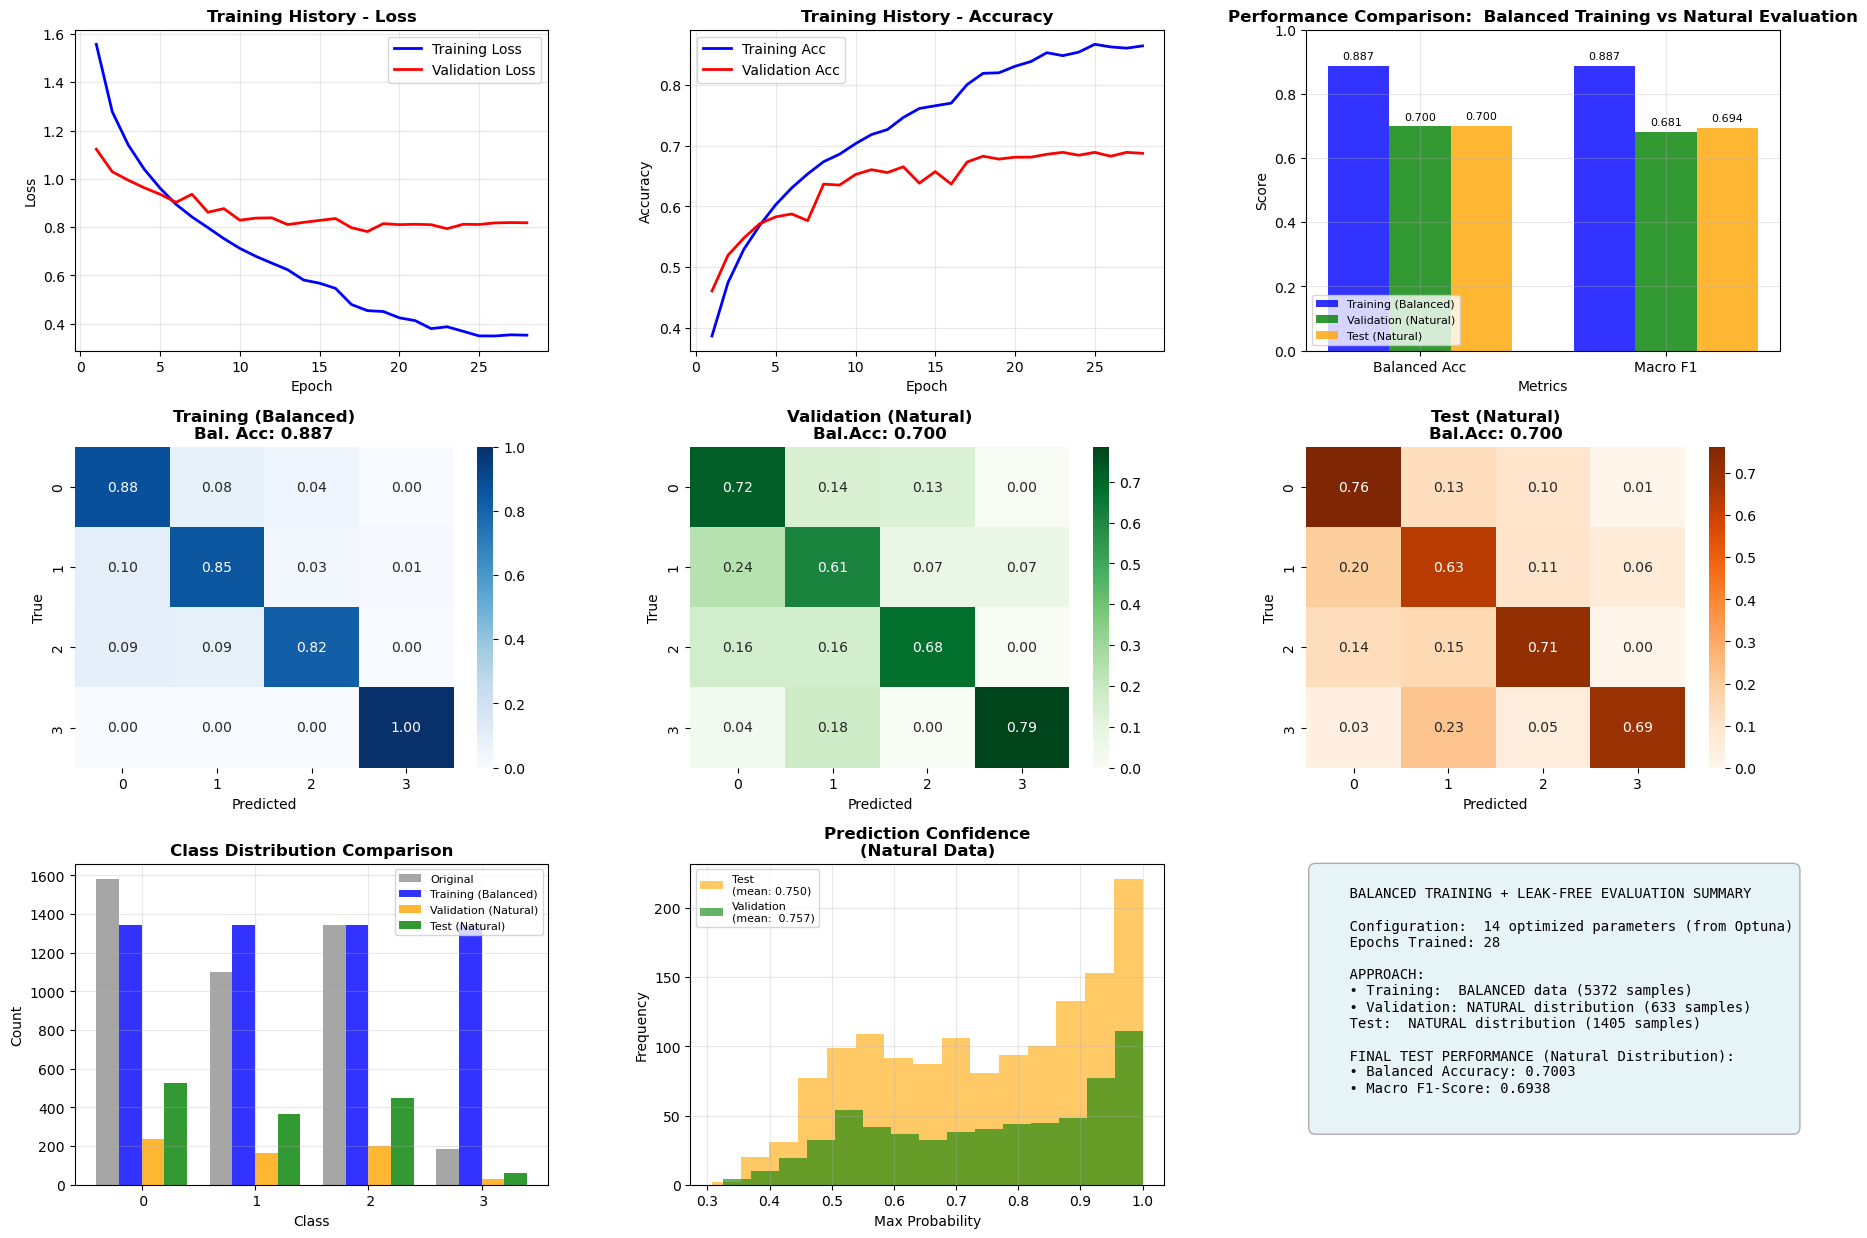
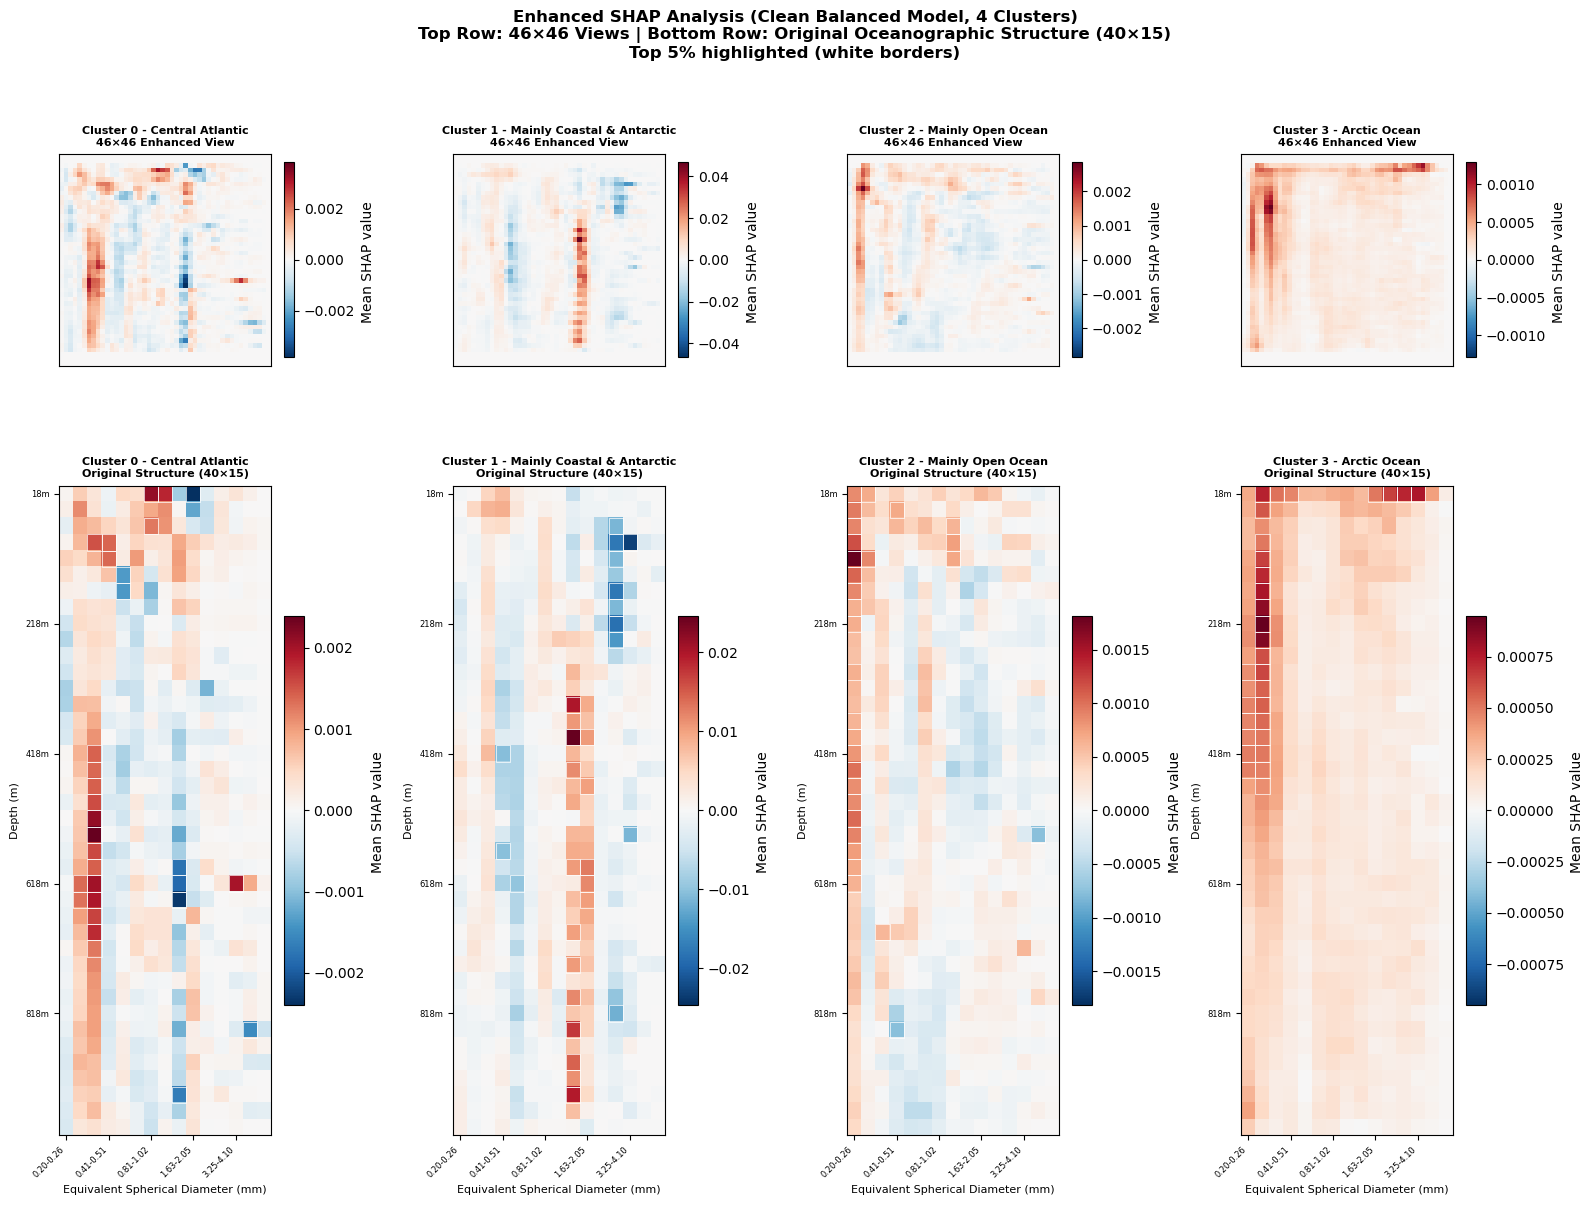
edited readme model and notebook table of contents

diff --git a/3_Model/README.md b/3_Model/README.md
@@ -11,7 +11,7 @@
 | **First CNN** |                 |              |                           |
 |Balanced Accuracy              |     0.86 ± 0.02 |     -        | 0.67 ± 0.03               |
 | **Second CNN: tuning with optuna** |            |              |                           |
-|Balanced Accuracy              | 0.89            | 0.70         | 0.67 ± 0.01               |
+|Balanced Accuracy              | 0.85            | 0.75         | 0.79 (10 % validation set)|
 | **Transfer learning model - ResNet50**| | | |
 | | | | |
 
@@ -37,24 +37,26 @@
 - optimized hyperparameters with one of four validation folds
 - trained final model with 15% validation data and tested on separate test set
 - **Hyperparameters:**
-    - learning_rate       :  0.0002
-    - batch_size          :  16
-    - dropout_rate_conv   :  0.195
-    - dropout_rate_dense  :  0.432
-    - conv_filters_1      :  48
-    - conv_filters_2      :  48
-    - conv_filters_3      :  96
-    - dense_units_1       :  384
-    - dense_units_2       :  384
-    - noise_level         :  0.131
-    - block_size          :  4
-    - lr_reduction_factor :  0.397
-    - lr_patience         :  3
-    - early_stop_patience :  10
+    learning_rate            :  0.0017
+    batch_size               :  16
+    dropout_rate_conv        :  0.574
+    dropout_rate_dense       :  0.528
+    conv_filters_1           :  32
+    conv_filters_2           :  96
+    conv_filters_3           :  96
+    dense_units_1            :  384
+    dense_units_2            :  384
+    noise_level              :  0.034
+    block_size               :  3
+    lr_reduction_factor      :  0.364
+    lr_patience              :  6
+    early_stop_patience      :  15
 
-![alt text](image-1.png)
+![final CNN overview](image.png)
 
 # SHAP analysis of features per cluster for second CNN
 - SHAP values were calculated for all features and averaged per cluster
 - square image-shapes were agrgegated into original data shape (40 depths x 15 size classes, bottom row)
 - High positive (red) SHAP values indicate that the feature value increases the probability of the target class.
+
+![SHAP plot per cluster](image-1.png)
